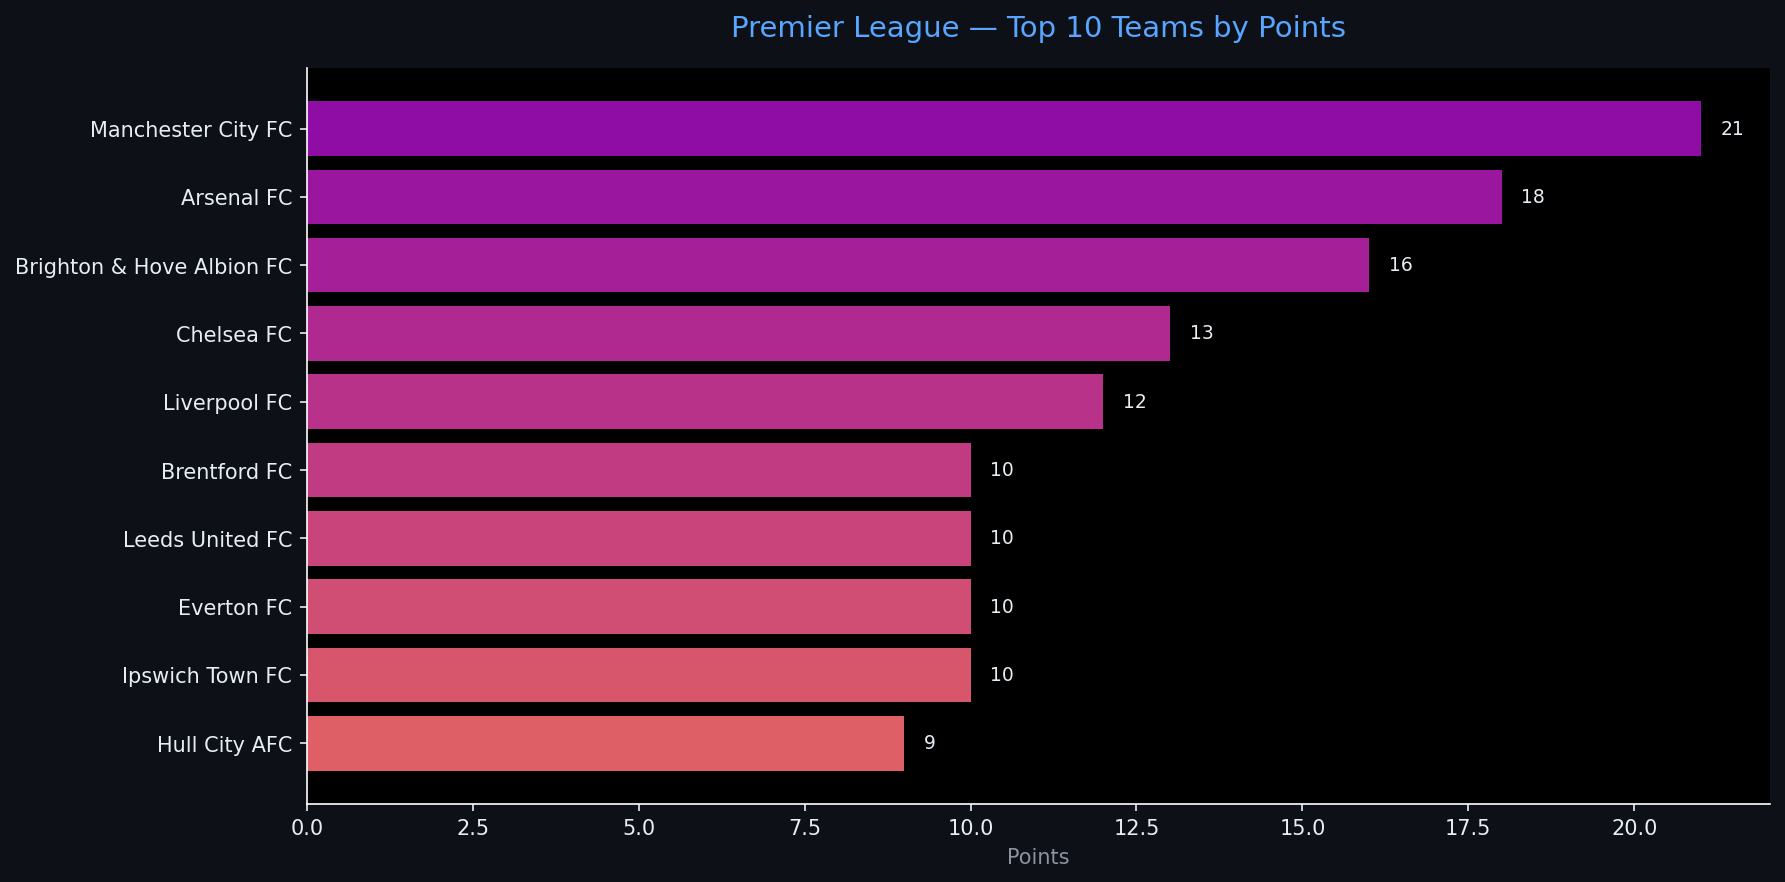
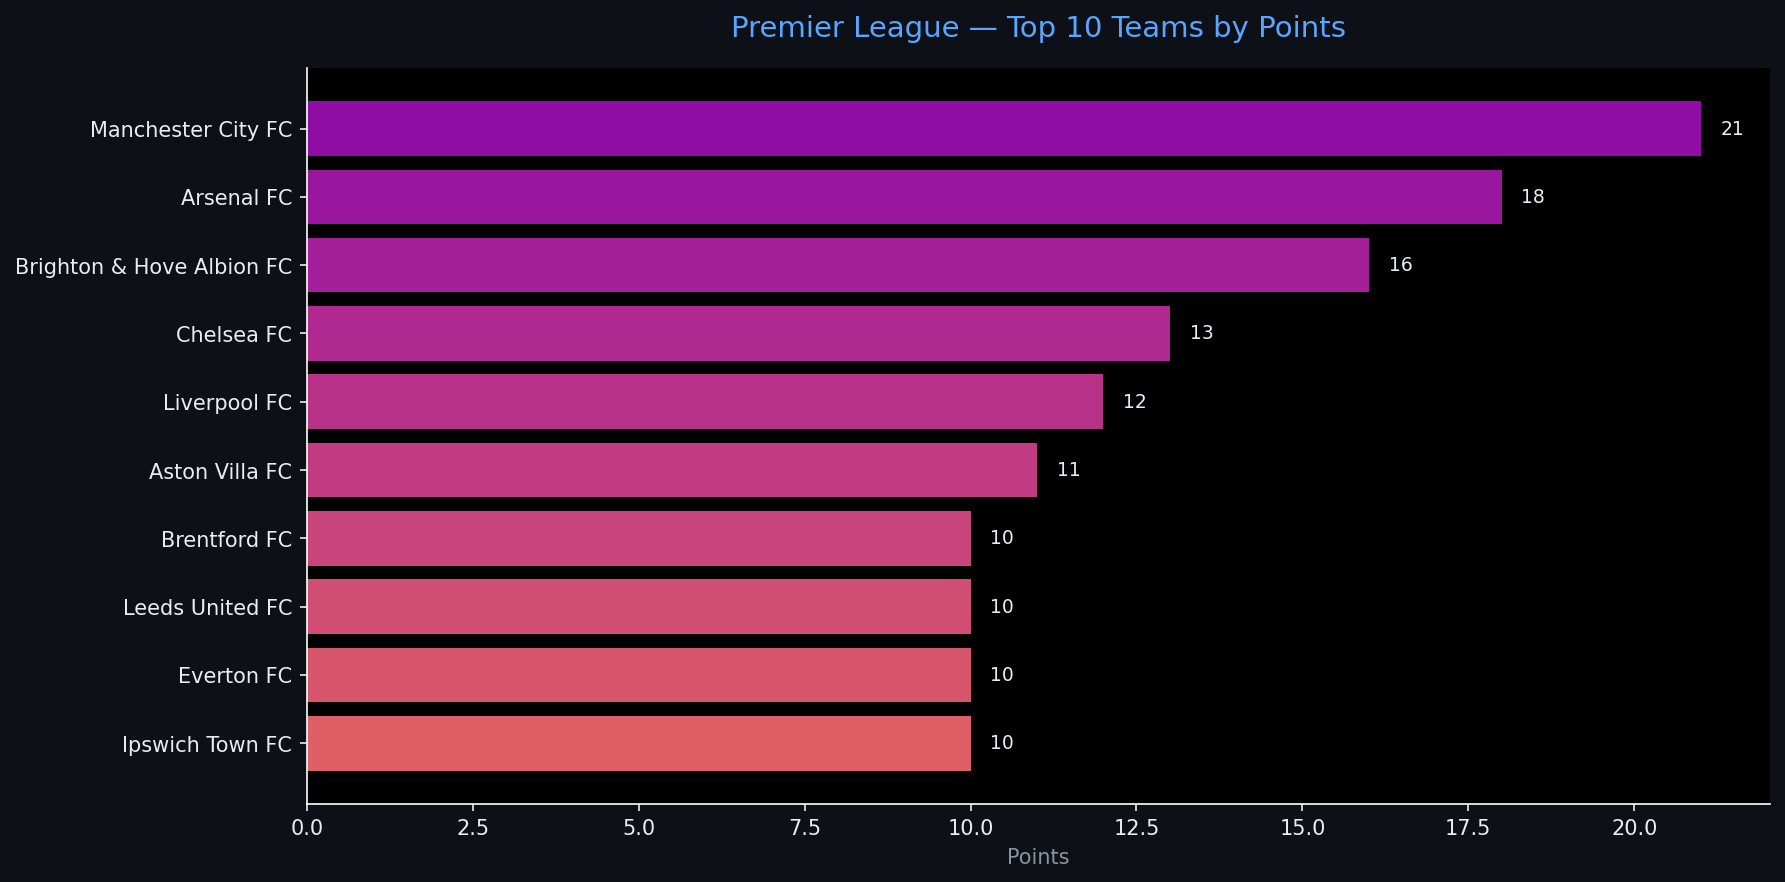
Automated ETL data update: 2026-10-24 13:46

diff --git a/reports/pipeline_report.html b/reports/pipeline_report.html
@@ -4,7 +4,7 @@
 <head>
     <meta charset="UTF-8">
     <meta name="viewport" content="width=device-width, initial-scale=1.0">
-    <title>Sports Data Pipeline Report — 2026-10-24 08:33</title>
+    <title>Sports Data Pipeline Report — 2026-10-24 13:46</title>
     <style>
         body { font-family: 'Segoe UI', sans-serif; background: #0d1117; color: #e6edf3; margin: 0; padding: 2rem; }
         h1   { color: #58a6ff; border-bottom: 1px solid #30363d; padding-bottom: 0.5rem; }
@@ -20,7 +20,7 @@
 </head>
 <body>
     <h1>⚽ Sports Data Pipeline — Automated Report</h1>
-    <p class="meta">Generated: 2026-10-24 08:33 UTC &nbsp;|&nbsp; Sport: <strong>football</strong> &nbsp;|&nbsp; Rows: <strong>20</strong></p>
+    <p class="meta">Generated: 2026-10-24 13:46 UTC &nbsp;|&nbsp; Sport: <strong>football</strong> &nbsp;|&nbsp; Rows: <strong>20</strong></p>
     <span class="badge">Pipeline v1.0.0</span>
     <h2>📊 Data Table</h2>
     <table class="dataframe data-table">
@@ -45,16 +45,16 @@
     <tr>
       <td>1</td>
       <td>Manchester City FC</td>
-      <td>7</td>
+      <td>8</td>
       <td>21</td>
       <td>7</td>
       <td>0</td>
-      <td>0</td>
-      <td>19</td>
-      <td>7</td>
-      <td>1.000</td>
-      <td>3.000</td>
-      <td>0.880</td>
+      <td>1</td>
+      <td>20</td>
+      <td>9</td>
+      <td>0.875</td>
+      <td>2.625</td>
+      <td>0.832</td>
       <td>NaN</td>
     </tr>
     <tr>
@@ -119,6 +119,21 @@
     </tr>
     <tr>
       <td>6</td>
+      <td>Aston Villa FC</td>
+      <td>8</td>
+      <td>11</td>
+      <td>3</td>
+      <td>2</td>
+      <td>3</td>
+      <td>9</td>
+      <td>12</td>
+      <td>0.375</td>
+      <td>1.375</td>
+      <td>0.360</td>
+      <td>NaN</td>
+    </tr>
+    <tr>
+      <td>7</td>
       <td>Brentford FC</td>
       <td>7</td>
       <td>10</td>
@@ -133,7 +148,7 @@
       <td>NaN</td>
     </tr>
     <tr>
-      <td>7</td>
+      <td>8</td>
       <td>Leeds United FC</td>
       <td>7</td>
       <td>10</td>
@@ -148,7 +163,7 @@
       <td>NaN</td>
     </tr>
     <tr>
-      <td>8</td>
+      <td>9</td>
       <td>Everton FC</td>
       <td>7</td>
       <td>10</td>
@@ -163,7 +178,7 @@
       <td>NaN</td>
     </tr>
     <tr>
-      <td>9</td>
+      <td>10</td>
       <td>Ipswich Town FC</td>
       <td>8</td>
       <td>10</td>
@@ -178,7 +193,7 @@
       <td>NaN</td>
     </tr>
     <tr>
-      <td>10</td>
+      <td>11</td>
       <td>Hull City AFC</td>
       <td>7</td>
       <td>9</td>
@@ -193,7 +208,7 @@
       <td>NaN</td>
     </tr>
     <tr>
-      <td>11</td>
+      <td>12</td>
       <td>Newcastle United FC</td>
       <td>7</td>
       <td>8</td>
@@ -205,21 +220,6 @@
       <td>0.286</td>
       <td>1.143</td>
       <td>0.338</td>
-      <td>NaN</td>
-    </tr>
-    <tr>
-      <td>12</td>
-      <td>Aston Villa FC</td>
-      <td>7</td>
-      <td>8</td>
-      <td>2</td>
-      <td>2</td>
-      <td>3</td>
-      <td>7</td>
-      <td>11</td>
-      <td>0.286</td>
-      <td>1.143</td>
-      <td>0.288</td>
       <td>NaN</td>
     </tr>
     <tr>
@@ -360,9 +360,9 @@
         
         <tr><td>Total Columns</td><td>29</td></tr>
         
-        <tr><td>Null Values</td><td>92</td></tr>
+        <tr><td>Null Values</td><td>90</td></tr>
         
-        <tr><td>Run Timestamp (UTC)</td><td>2026-10-24T08:33:10.702209</td></tr>
+        <tr><td>Run Timestamp (UTC)</td><td>2026-10-24T13:46:37.729338</td></tr>
         
         <tr><td>ML Features Ready</td><td>False</td></tr>
         
